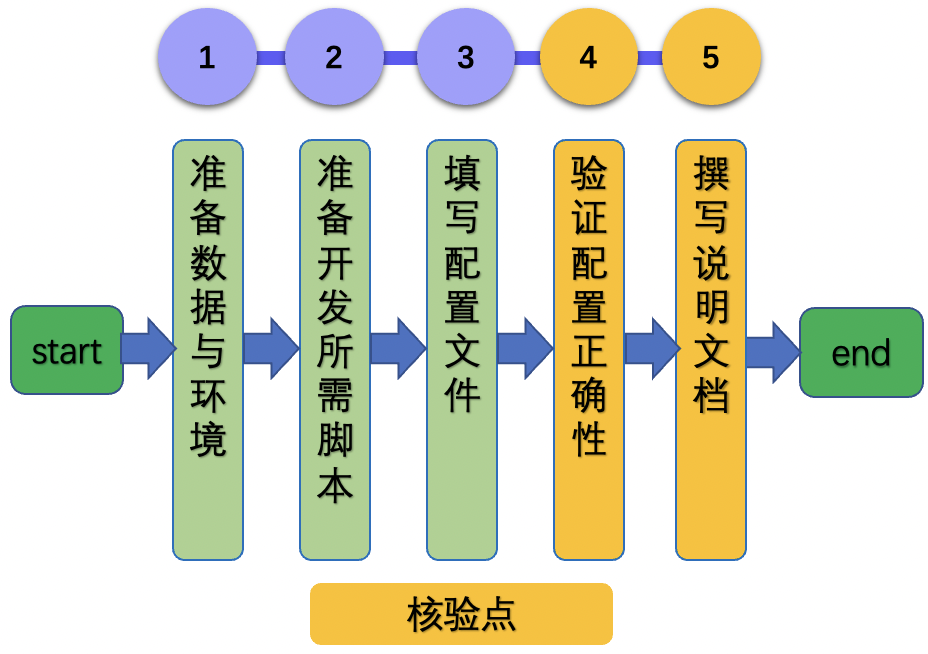
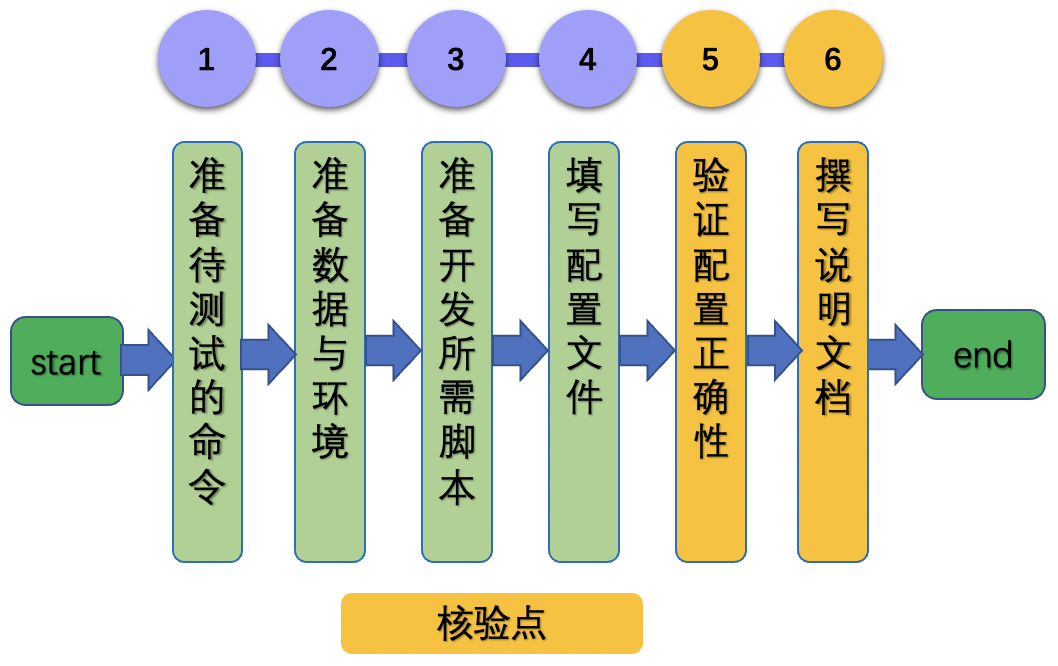
fix doc

diff --git a/docs/tipc/serving/test_serving.md b/docs/tipc/serving/test_serving.md
@@ -7,27 +7,19 @@
     - [2.1 命令解析](#2.1)
     - [2.2 配置文件解析](#2.2)
 - [3. 测试功能开发](#3)
-    - [3.1 准备数据与环境](#3.1)
-    - [3.2 准备开发所需脚本](#3.2)
-    - [3.3 填写配置文件](#3.3)
-    - [3.4 验证配置正确性](#3.4)
-    - [3.5 撰写说明文档](#3.5)
+    - [3.1 准备待测试的命令](#3.1)
+    - [3.2 准备数据与环境](#3.2)
+    - [3.3 准备开发所需脚本](#3.3)
+    - [3.4 填写配置文件](#3.4)
+    - [3.5 验证配置正确性](#3.5)
+    - [3.6 撰写说明文档](#3.6)
 - [4. 附录](#4)
 
 <a name="1"></a>
 
 ## 1. 简介
 
-本文档主要介绍飞桨模型在 Linux GPU/CPU 下服务化部署能力的测试开发过程。主要内容为
-
-（1）参考 [《Linux GPU/CPU 基础训练推理开发文档》](../train_infer_python/README.md)，完成模型的训练和基于Paddle Inference的模型推理开发。
-
-（2）参考[《Linux GPU/CPU 服务化部署功能开发文档》](./serving.md)，在Paddle Inference的模型推理基础上，完成服务化部署能力的开发。
-
-（3）完成 TIPC 服务化部署测试开发（**本文档**）。
-
-
-具体地，本文档主要关注Linux GPU/CPU 下模型的服务化部署能力，具体测试点如下：
+本文档主要介绍飞桨模型在 Linux GPU/CPU 下服务化部署能力的测试开发过程。主要关注点点如下：
 
 - Inference 模型转 Serving 模型
 - Paddle Serving 服务化部署开发
@@ -161,9 +153,35 @@ Serving服务化部署主要分为以下5个步骤。
 
 ## 3. 测试功能开发
 
+
 <a name="3.1"></a>
 
-### 3.1 准备小数据集与环境
+### 3.1 准备待测试的命令
+
+**【基本内容】**
+
+准备模型转换、Serving服务启动、Serving服务访问的命令，后续会将这些命令按照[第2章](#2)所述内容，映射到配置文件中。
+
+**【实战】**
+
+AlexNet中，具体命令如下所示。
+
+```bash
+# 模型转换：Inference 模型转为 Serving 模型
+python3.7 -m paddle_serving_client.convert --dirname  ../../alexnet_infer/ --model_filename inference.pdmodel --params_filename inference.pdiparams --serving_server alexnet_server --serving_client alexnet_client
+
+# 启动服务
+python3.7 web_service.py
+
+# 启动客户端访问
+python3.7 pipeline_http_client.py --img-path=../../images/demo.jpg
+```
+
+
+
+<a name="3.2"></a>
+
+### 3.2 准备小数据集与环境
 
 **【基本内容】**
 
@@ -172,9 +190,9 @@ Serving服务化部署主要分为以下5个步骤。
 * 环境：可以参考[Linux GPU/CPU 服务化部署功能开发规范](./serving.md)完成Serving部署环境的准备。
 
 
-<a name="=3.2"></a>
+<a name="=3.3"></a>
 
-### 3.2 准备开发所需脚本
+### 3.3 准备开发所需脚本
 
 **【基本内容】**
 
@@ -184,9 +202,9 @@ Serving服务化部署主要分为以下5个步骤。
 
 * 上述脚本文件无需改动，在实际使用时，直接修改配置文件即可。
 
-<a name="3.3"></a>
+<a name="3.4"></a>
 
-### 3.3 填写配置文件
+### 3.4 填写配置文件
 
 **【基本内容】**
 
@@ -198,9 +216,9 @@ Serving服务化部署主要分为以下5个步骤。
 
 AlexNet的测试开发配置文件可以参考：[model_linux_gpu_normal_normal_serving_python_linux_gpu_cpu.txt](https://github.com/littletomatodonkey/AlexNet-Prod/blob/tipc/pipeline/Step5/AlexNet_paddle/test_tipc/configs/AlexNet/model_linux_gpu_normal_normal_serving_python_linux_gpu_cpu.txt)。
 
-<a name="3.4"></a>
+<a name="3.5"></a>
 
-### 3.4 验证配置正确性
+### 3.5 验证配置正确性
 
 **【基本内容】**
 
@@ -223,9 +241,9 @@ AlexNet中验证配置正确性的脚本：[AlexNet Serving 部署功能测试](
 
 基于修改后的配置文件，命令运行成功，测试通过。
 
-<a name="3.5"></a>
+<a name="3.6"></a>
 
-### 3.5 撰写说明文档
+### 3.6 撰写说明文档
 
 **【基本内容】**
 

diff --git a/docs/tipc/serving/README.md b/docs/tipc/serving/README.md
@@ -98,5 +98,5 @@ test_tipc
 #### 3.2.2 配置文件和测试文档
 
 * `test_tipc/README.md` 文档中对该模型支持的的部署功能进行总体介绍。
-* `test_tipc/docs/test_serving.md` 文档中对**Linux GPU/CPU Serving部署**的功能支持情况进行介绍。
+* `test_tipc/docs/test_serving.md` 文档中对**Linux GPU/CPU Serving部署**的功能支持情况和测试说明进行介绍。
 * 根据测试文档，基于配置文件，跑通Serving部署测试过程，在文档中记录`运行成功的输出日志`。

diff --git a/docs/tipc/train_infer_python/README.md b/docs/tipc/train_infer_python/README.md
@@ -180,5 +180,5 @@ test_tipc
 #### 4.2.2 配置文件和测试文档
 
 * `test_tipc/README.md` 文档中对该模型支持的的功能进行总体介绍。
-* `test_tipc/docs/test_train_inference_python.md` 文档中对**Linux GPU/CPU 基础训练推理**的功能支持情况进行介绍。
+* `test_tipc/docs/test_train_inference_python.md` 文档中对**Linux GPU/CPU 基础训练推理**的功能支持情况和测试说明进行介绍。
 * 根据测试文档，基于配置文件，跑通训练推理全流程测试。
